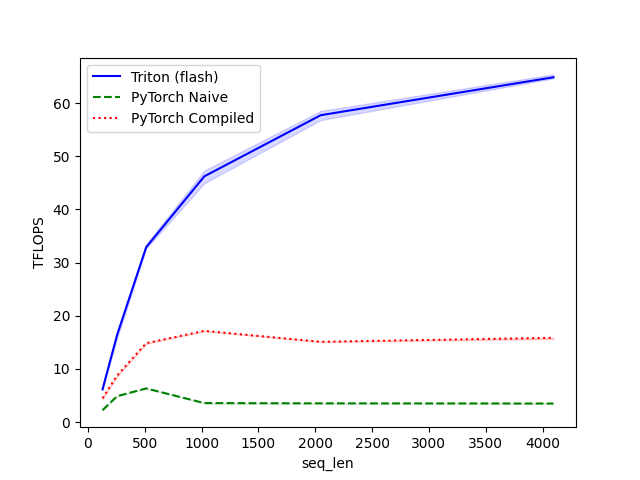
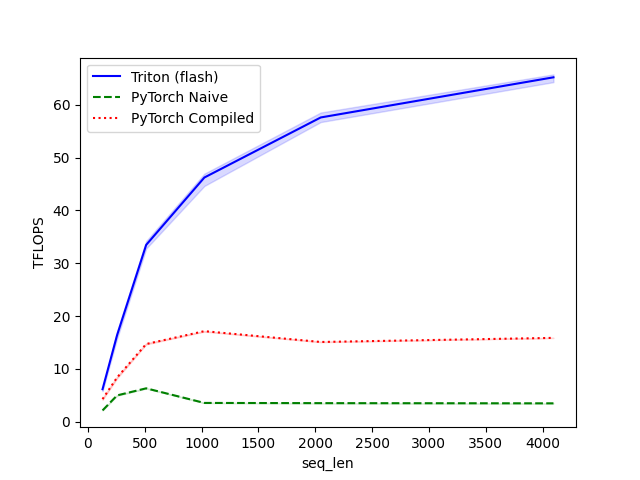
add swiglu

diff --git a/benchmarks/ffn/benchmark_swiglu_fused.py b/benchmarks/ffn/benchmark_swiglu_fused.py
@@ -1,0 +1,248 @@
+#!/usr/bin/env python3
+"""
+Fused SwiGLU FFN Benchmark: Triton fused vs PyTorch compiled vs PyTorch unfused.
+
+Usage:
+  python benchmark_swiglu_fused.py
+  python benchmark_swiglu_fused.py --save-plots
+  python benchmark_swiglu_fused.py --save-plots --plot-dir ./results
+"""
+
+import json
+import sys
+import argparse
+from pathlib import Path
+
+import torch
+import torch.nn.functional as F
+import triton
+import triton.testing
+
+REPO_ROOT = Path(__file__).parent.parent.parent
+sys.path.insert(0, str(REPO_ROOT / "kernels"))
+sys.path.insert(0, str(REPO_ROOT / "benchmarks"))
+
+from common.plotting import plot_summary_comparison
+
+from kernels.ffn.swiglu_fused import fused_ffn_swiglu, fused_ffn_swiglu_kernel
+
+# Bielik-1.5B config
+HIDDEN_SIZE = 1536
+INTER_SIZE  = 8960
+
+BLOCK_M = 64
+BLOCK_N = 64
+BLOCK_K = 32
+GROUP_M = 8
+
+
+def pytorch_unfused(x: torch.Tensor, W_gate: torch.Tensor, W_up: torch.Tensor) -> torch.Tensor:
+    """Unfused - three separate kernel launches: matmul, matmul, silu+mul."""
+    gate = x @ W_gate
+    up   = x @ W_up
+    return F.silu(gate) * up
+
+
[email redacted]
+def _swiglu_compiled_fn(x, W_gate, W_up):
+    return F.silu(x @ W_gate) * (x @ W_up)
+
+def pytorch_compiled(x: torch.Tensor, W_gate: torch.Tensor, W_up: torch.Tensor) -> torch.Tensor:
+    return _swiglu_compiled_fn(x, W_gate, W_up)
+
+def _warmup_triton(x: torch.Tensor, W_gate: torch.Tensor, W_up: torch.Tensor,
+                   output: torch.Tensor) -> None:
+    M, K = x.shape
+    N    = W_gate.shape[1]
+    grid = (triton.cdiv(M, BLOCK_M) * triton.cdiv(N, BLOCK_N),)
+    fused_ffn_swiglu_kernel.warmup(
+        x, W_gate, W_up, output,
+        M, N, K,
+        x.stride(0),      x.stride(1),
+        W_gate.stride(0), W_gate.stride(1),
+        output.stride(0), output.stride(1),
+        BLOCK_M=BLOCK_M, BLOCK_N=BLOCK_N, BLOCK_K=BLOCK_K, GROUP_M=GROUP_M,
+        grid=grid,
+    )
+
[email redacted]_report(
+    triton.testing.Benchmark(
+        x_names=["seq_len"],
+        x_vals=[1, 4, 8, 16, 32, 64, 128, 256, 512, 1024, 2048, 4096],
+        line_arg="provider",
+        line_vals=["triton", "pytorch_compiled", "pytorch_unfused"],
+        line_names=["Triton (fused)", "PyTorch Compiled", "PyTorch Unfused"],
+        styles=[("blue", "-"), ("green", "--"), ("red", ":")],
+        ylabel="TFLOPS",
+        plot_name="swiglu-ffn-tflops-vs-seq-len",
+        args={"batch": 1, "hidden_size": HIDDEN_SIZE, "inter_size": INTER_SIZE,
+              "dtype": torch.bfloat16},
+    )
+)
+def bench_seq_len(seq_len, provider, batch, hidden_size, inter_size, dtype):
+    M      = batch * seq_len
+    x      = torch.randn(M, hidden_size, device="cuda", dtype=dtype)
+    W_gate = torch.randn(hidden_size, inter_size, device="cuda", dtype=dtype)
+    W_up   = torch.randn(hidden_size, inter_size, device="cuda", dtype=dtype)
+    output = torch.empty(M, inter_size, device="cuda", dtype=dtype)
+
+    if provider == "triton":
+        _warmup_triton(x, W_gate, W_up, output)
+        fn = lambda: fused_ffn_swiglu(x, W_gate, W_up)
+    elif provider == "pytorch_compiled":
+        pytorch_compiled(x, W_gate, W_up)  # warmup compilation
+        fn = lambda: pytorch_compiled(x, W_gate, W_up)
+    else:
+        fn = lambda: pytorch_unfused(x, W_gate, W_up)
+
+    ms, min_ms, max_ms = triton.testing.do_bench(fn, quantiles=[0.5, 0.2, 0.8])
+    tflops = lambda t: (4 * M * hidden_size * inter_size) / (t * 1e9)
+    stats = {
+        "provider": provider, "seq_len": seq_len, "batch": batch,
+        "hidden_size": hidden_size, "inter_size": inter_size,
+        "ms": ms, "min_ms": min_ms, "max_ms": max_ms,
+        "tflops": tflops(ms), "min_tflops": tflops(max_ms), "max_tflops": tflops(min_ms),
+    }
+    with open("swiglu_ffn_bench_seq_len.jsonl", "a") as f:
+        f.write(json.dumps(stats) + "\n")
+    return tflops(ms), tflops(max_ms), tflops(min_ms)
+
[email redacted]_report(
+    triton.testing.Benchmark(
+        x_names=["inter_size"],
+        x_vals=[1024, 2048, 4096, 8960, 11008, 14336],
+        line_arg="provider",
+        line_vals=["triton", "pytorch_compiled", "pytorch_unfused"],
+        line_names=["Triton (fused)", "PyTorch Compiled", "PyTorch Unfused"],
+        styles=[("blue", "-"), ("green", "--"), ("red", ":")],
+        ylabel="TFLOPS",
+        plot_name="swiglu-ffn-tflops-vs-inter-size",
+        args={"n_rows": 512, "hidden_size": HIDDEN_SIZE, "dtype": torch.bfloat16},
+    )
+)
+def bench_inter_size(inter_size, provider, n_rows, hidden_size, dtype):
+    x      = torch.randn(n_rows, hidden_size, device="cuda", dtype=dtype)
+    W_gate = torch.randn(hidden_size, inter_size, device="cuda", dtype=dtype)
+    W_up   = torch.randn(hidden_size, inter_size, device="cuda", dtype=dtype)
+    output = torch.empty(n_rows, inter_size, device="cuda", dtype=dtype)
+
+    if provider == "triton":
+        _warmup_triton(x, W_gate, W_up, output)
+        fn = lambda: fused_ffn_swiglu(x, W_gate, W_up)
+    elif provider == "pytorch_compiled":
+        pytorch_compiled(x, W_gate, W_up)
+        fn = lambda: pytorch_compiled(x, W_gate, W_up)
+    else:
+        fn = lambda: pytorch_unfused(x, W_gate, W_up)
+
+    ms, min_ms, max_ms = triton.testing.do_bench(fn, quantiles=[0.5, 0.2, 0.8])
+    tflops = lambda t: (4 * n_rows * hidden_size * inter_size) / (t * 1e9)
+    stats = {
+        "provider": provider, "inter_size": inter_size, "n_rows": n_rows,
+        "hidden_size": hidden_size,
+        "ms": ms, "min_ms": min_ms, "max_ms": max_ms,
+        "tflops": tflops(ms), "min_tflops": tflops(max_ms), "max_tflops": tflops(min_ms),
+    }
+    with open("swiglu_ffn_bench_inter_size.jsonl", "a") as f:
+        f.write(json.dumps(stats) + "\n")
+    return tflops(ms), tflops(max_ms), tflops(min_ms)
+
+
+def print_summary(save_path=""):
+    dtype       = torch.bfloat16
+    hidden_size = HIDDEN_SIZE
+    inter_size  = INTER_SIZE
+    n_rows_list = [1, 8, 32, 128, 512, 1024]
+
+    W_gate = torch.randn(hidden_size, inter_size, device="cuda", dtype=dtype)
+    W_up   = torch.randn(hidden_size, inter_size, device="cuda", dtype=dtype)
+
+    print()
+    print("=" * 82)
+    print(f"  SwiGLU FFN - Bielik config: hidden={hidden_size}, inter={inter_size}, bf16")
+    print(f"  GPU: {torch.cuda.get_device_name(0)}")
+    print("=" * 82)
+    print(f"  {'n_rows':<8} {'Provider':<22} {'ms':>8} {'GB/s':>10} {'TFLOPS':>10}")
+    print("-" * 82)
+
+    data_dict = {
+        "Triton (fused)":   [],
+        "PyTorch Compiled": [],
+        "PyTorch Unfused":  [],
+    }
+    labels = [str(n) for n in n_rows_list]
+
+    for n_rows in n_rows_list:
+        x      = torch.randn(n_rows, hidden_size, device="cuda", dtype=dtype)
+        output = torch.empty(n_rows, inter_size,  device="cuda", dtype=dtype)
+        _warmup_triton(x, W_gate, W_up, output)
+        pytorch_compiled(x, W_gate, W_up)  # warmup compilation
+
+        nbytes = (n_rows * hidden_size + 2 * hidden_size * inter_size
+                  + n_rows * inter_size) * x.element_size()
+        flops  = 4 * n_rows * hidden_size * inter_size  # two matmuls
+
+        cases = [
+            ("Triton (fused)  ", "Triton (fused)",   lambda: fused_ffn_swiglu(x, W_gate, W_up)),
+            ("PyTorch Compiled", "PyTorch Compiled",  lambda: pytorch_compiled(x, W_gate, W_up)),
+            ("PyTorch Unfused ", "PyTorch Unfused",   lambda: pytorch_unfused(x, W_gate, W_up)),
+        ]
+
+        for display_name, dict_key, fn in cases:
+            ms     = triton.testing.do_bench(fn)
+            gbps   = nbytes / (ms * 1e6)
+            tflops = flops  / (ms * 1e9)
+            data_dict[dict_key].append([gbps, tflops])
+            print(f"  {n_rows:<8} {display_name:<22} {ms:>8.3f} {gbps:>10.1f} {tflops:>10.4f}")
+        print()
+
+    if save_path:
+        plot_summary_comparison(
+            data=data_dict,
+            x_labels=labels,
+            metrics=["GB/s", "TFLOPS"],
+            title="SwiGLU FFN Performance - Bielik Config",
+            xlabel="n_rows (batch x seq_len)",
+            save_path=save_path,
+            filename_prefix="swiglu_ffn-summary-bielik-config",
+            gpu_name=torch.cuda.get_device_name(0),
+        )
+
+
+if __name__ == "__main__":
+    parser = argparse.ArgumentParser(description="Fused SwiGLU FFN benchmark")
+    parser.add_argument("--save-plots", action="store_true", help="Save plots as PNG")
+    parser.add_argument("--plot-dir", default=".", help="Directory to save plots")
+    args = parser.parse_args()
+
+    print("=" * 82)
+    print("SwiGLU FFN Benchmark: Triton Fused vs PyTorch Compiled vs PyTorch Unfused")
+    print("=" * 82)
+    print(f"GPU: {torch.cuda.get_device_name(0)}")
+    print()
+
+    if args.save_plots:
+        plot_dir = Path(args.plot_dir)
+        plot_dir.mkdir(parents=True, exist_ok=True)
+        save_path = str(plot_dir)
+        print(f"Saving plots to: {plot_dir.absolute()}/")
+        print()
+    else:
+        save_path = ""
+
+    print("--- Sweep 1: vary seq_len (batch=1, hidden=1536, inter=8960, bf16) ---")
+    bench_seq_len.run(show_plots=not args.save_plots, print_data=True, save_path=save_path)
+
+    print()
+    print("--- Sweep 2: vary inter_size (n_rows=512, hidden=1536, bf16) ---")
+    bench_inter_size.run(show_plots=not args.save_plots, print_data=True, save_path=save_path)
+
+    print_summary(save_path=save_path if args.save_plots else "")
+
+    if args.save_plots:
+        print()
+        print(f"Plots saved to {plot_dir.absolute()}/")
+        print(f"  - swiglu-ffn-tflops-vs-seq-len.png")
+        print(f"  - swiglu-ffn-tflops-vs-inter-size.png")
+        print(f"  - swiglu_ffn-summary-bielik-config-gb_s.png")
+        print(f"  - swiglu_ffn-summary-bielik-config-tflops.png")

diff --git a/kernels/ffn/swiglu_fused.py b/kernels/ffn/swiglu_fused.py
@@ -1,0 +1,92 @@
+import torch
+import torch.nn.functional as F
+import triton
+import triton.language as tl
+
+
[email redacted]
+def fused_ffn_swiglu_kernel(
+    X_ptr, W_gate_ptr, W_up_ptr, Out_ptr,
+    M, N, K,
+    stride_xm, stride_xk,
+    stride_wk, stride_wn,
+    stride_om, stride_on,
+    BLOCK_M: tl.constexpr,
+    BLOCK_N: tl.constexpr,
+    BLOCK_K: tl.constexpr,
+    GROUP_M: tl.constexpr,
+):
+    pid = tl.program_id(axis=0)
+    num_pid_m = tl.cdiv(M, BLOCK_M)
+    num_pid_n = tl.cdiv(N, BLOCK_N)
+
+    num_pid_in_group = GROUP_M * num_pid_n
+    group_id         = pid // num_pid_in_group
+    first_pid_m      = group_id * GROUP_M
+    group_size_m     = min(num_pid_m - first_pid_m, GROUP_M)
+
+    pid_m = first_pid_m + ((pid % num_pid_in_group) % group_size_m)
+    pid_n = (pid % num_pid_in_group) // group_size_m
+
+    offs_m = pid_m * BLOCK_M + tl.arange(0, BLOCK_M)
+    offs_n = pid_n * BLOCK_N + tl.arange(0, BLOCK_N)
+    offs_k = tl.arange(0, BLOCK_K)
+
+    x_ptrs  = X_ptr      + offs_m[:, None] * stride_xm + offs_k[None, :] * stride_xk
+    wg_ptrs = W_gate_ptr + offs_k[:, None] * stride_wk + offs_n[None, :] * stride_wn
+    wu_ptrs = W_up_ptr   + offs_k[:, None] * stride_wk + offs_n[None, :] * stride_wn
+
+    acc_gate = tl.zeros((BLOCK_M, BLOCK_N), dtype=tl.float32)
+    acc_up   = tl.zeros((BLOCK_M, BLOCK_N), dtype=tl.float32)
+
+    for k in range(0, tl.cdiv(K, BLOCK_K)):
+        k_mask   = offs_k[None, :] + k * BLOCK_K < K
+        k_mask_w = offs_k[:, None] + k * BLOCK_K < K
+
+        x  = tl.load(x_ptrs,  mask=(offs_m[:, None] < M) & k_mask,  other=0.0)
+        wg = tl.load(wg_ptrs, mask=k_mask_w & (offs_n[None, :] < N), other=0.0)
+        wu = tl.load(wu_ptrs, mask=k_mask_w & (offs_n[None, :] < N), other=0.0)
+
+        acc_gate = tl.dot(x, wg, acc=acc_gate)
+        acc_up   = tl.dot(x, wu, acc=acc_up)
+
+        x_ptrs  += BLOCK_K * stride_xk
+        wg_ptrs += BLOCK_K * stride_wk
+        wu_ptrs += BLOCK_K * stride_wk
+
+    out = acc_gate * tl.sigmoid(acc_gate) * acc_up
+
+    out_ptrs = Out_ptr + offs_m[:, None] * stride_om + offs_n[None, :] * stride_on
+    tl.store(out_ptrs, out.to(Out_ptr.dtype.element_ty),
+             mask=(offs_m[:, None] < M) & (offs_n[None, :] < N))
+
+
+def fused_ffn_swiglu(x, W_gate, W_up):
+    orig_shape = x.shape
+    K = orig_shape[-1]
+    x_2d = x.reshape(-1, K)
+    M = x_2d.shape[0]
+    N = W_gate.shape[1]
+
+    if not x_2d.is_contiguous():
+        x_2d = x_2d.contiguous()
+
+    output = torch.empty((M, N), device=x.device, dtype=x.dtype)
+
+    BLOCK_M = 64
+    BLOCK_N = 64
+    BLOCK_K = 32
+    GROUP_M = 8
+
+    grid = (triton.cdiv(M, BLOCK_M) * triton.cdiv(N, BLOCK_N),)
+
+    fused_ffn_swiglu_kernel[grid](
+        x_2d, W_gate, W_up, output,
+        M, N, K,
+        x_2d.stride(0),   x_2d.stride(1),
+        W_gate.stride(0), W_gate.stride(1),
+        output.stride(0), output.stride(1),
+        BLOCK_M=BLOCK_M, BLOCK_N=BLOCK_N, BLOCK_K=BLOCK_K, GROUP_M=GROUP_M,
+    )
+
+    return output.reshape(*orig_shape[:-1], N)